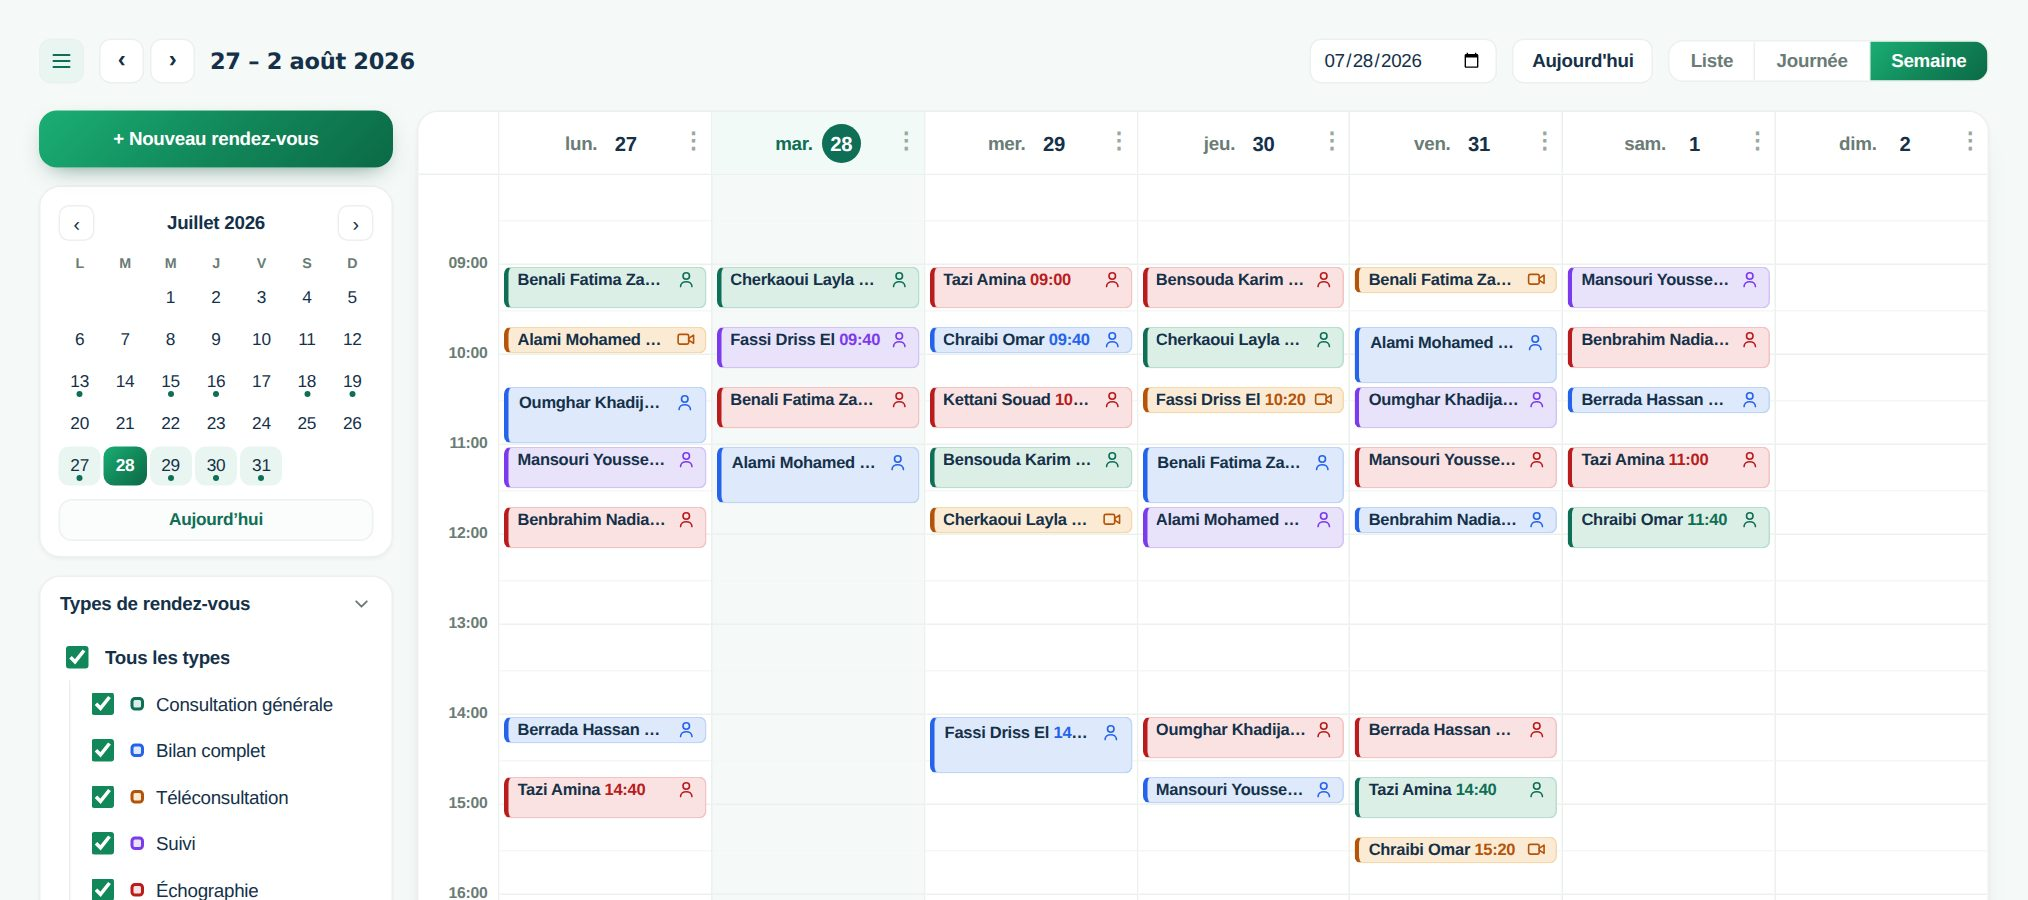
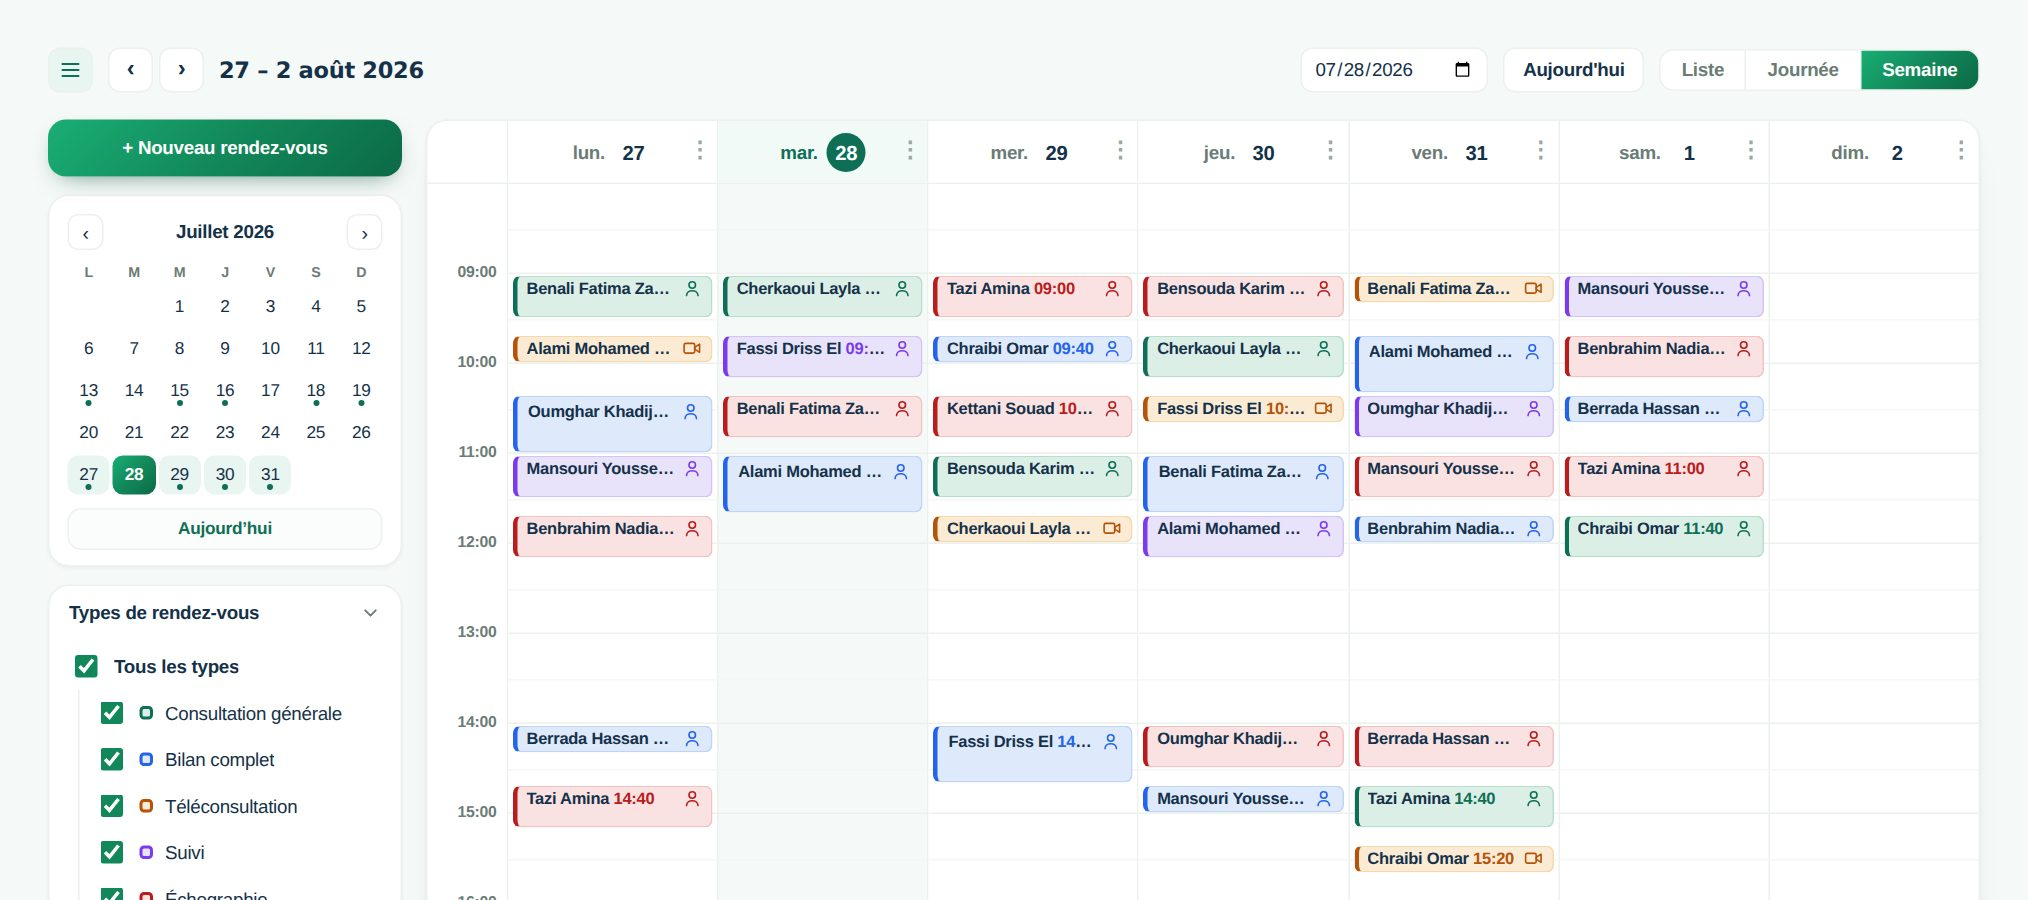
Dossier

diff --git a/frontend/src/pages/doctor/Staff.jsx b/frontend/src/pages/doctor/Staff.jsx
@@ -85,11 +85,15 @@ function StaffPreview() {
     setTimeout(() => el.remove(), 2800);
   };
   return (
-    <div style={{ padding: 32, background: BG, minHeight: '100vh' }}>
-      <div style={{ marginBottom: 20 }}>
-        <h1 style={{ fontSize: 24, fontWeight: 700, color: DARK, margin: 0 }}>Mon équipe</h1>
-      </div>
-      <div style={{ maxWidth: 720, margin: '0 auto', display: 'flex', flexDirection: 'column', gap: 20 }}>
+    <div style={{ padding: '32px 32px 48px', background: BG, minHeight: '100vh' }}>
+      <Hero tint={SEC.admin} icon={ICONS.team}
+        title="Mon équipe"
+        sub="Le secrétariat de votre cabinet : qui a accès, et à quoi."
+        chips={[
+          { value: PREVIEW_MEMBERS.filter((m) => m.active).length, label: 'membres actifs', color: '#0E7C52' },
+          { value: PREVIEW_MEMBERS.length, label: 'au total' },
+        ]} />
+      <div style={{ maxWidth: 900, display: 'flex', flexDirection: 'column', gap: 20 }}>
         <div style={{ background: '#FEF6E7', border: '1px solid #F0DCAE', borderRadius: 14, padding: '14px 18px', fontSize: 13.5, lineHeight: 1.6, color: '#7A5A10', display: 'flex', gap: 11 }}>
           <svg width="18" height="18" viewBox="0 0 24 24" fill="none" stroke="currentColor" strokeWidth="2" strokeLinecap="round" strokeLinejoin="round" style={{ flexShrink: 0, marginTop: 2 }}><circle cx="12" cy="12" r="9"/><path d="M12 8v5M12 16v.1"/></svg>
           <span><strong>Aperçu de démonstration.</strong> Voici la page telle qu'elle fonctionnera dès l'activation de votre compte. Les membres ci-dessous sont fictifs et aucune action n'est enregistrée.</span>
@@ -248,14 +252,14 @@ export default function Staff() {
   }
 
   return (
-    <div style={{ padding: 32, background: BG, minHeight: '100vh' }}>
+    <div style={{ padding: '32px 32px 48px', background: BG, minHeight: '100vh' }}>
 
       <Hero tint={SEC.admin} icon={ICONS.team}
         title="Mon équipe"
         sub="Le secrétariat de votre cabinet : qui a accès, et à quoi." />
 
       <div style={{
-        maxWidth: 720,
+        maxWidth: 900,
         margin: '0 auto',
         display: 'flex',
         flexDirection: 'column',

diff --git a/frontend/src/pages/doctor/PatientFile.jsx b/frontend/src/pages/doctor/PatientFile.jsx
@@ -431,12 +431,14 @@ function PatientPicker({ state, setState, go, isMobile }) {
   const th = { padding: '12px 16px', textAlign: 'start', fontWeight: 600, color: MUTED, fontSize: 12, whiteSpace: 'nowrap' };
 
   return (
-    <div style={{ padding: isMobile ? '18px 14px' : '32px', fontFamily: 'Inter, sans-serif', background: BG, minHeight: '100%', boxSizing: 'border-box' }}>
-      {/* En-tête pleine largeur — même gabarit que Rendez-vous et Consultations */}
-      <div style={{ marginBottom: 22 }}>
-        <h1 style={{ margin: 0, fontSize: 22, fontWeight: 800, color: DARK, letterSpacing: '-0.3px' }}>Dossier patient</h1>
-        <p style={{ margin: '4px 0 0', fontSize: 13.5, color: MUTED }}>Sélectionnez un patient pour ouvrir son dossier médical.</p>
-      </div>
+    <div style={{ padding: isMobile ? 12 : 32, fontFamily: 'Inter, sans-serif', background: BG, minHeight: '100%', boxSizing: 'border-box' }}>
+      <Hero tint={SEC.profil} icon={IC.idcard} isMobile={isMobile}
+        title="Dossier patient"
+        sub="Choisissez un patient pour ouvrir son dossier médical — antécédents, traitements, analyses et documents."
+        chips={[
+          { value: roster.length, label: roster.length > 1 ? 'patients au cabinet' : 'patient au cabinet' },
+          q.trim() ? { value: list.length, label: 'trouvés', color: '#0E7C52' } : null,
+        ]} />
 
       {/* Recherche — carte blanche, comme sur les autres sections */}
       <div style={{ background: '#fff', borderRadius: 14, border: `1px solid ${BORDER}`, padding: '16px 20px', marginBottom: 20, boxShadow: SHADOW }}>

diff --git a/frontend/src/pages/doctor/Availability.jsx b/frontend/src/pages/doctor/Availability.jsx
@@ -335,7 +335,7 @@ export default function Availability({ state, setState, go, openNewAppt, openAdd
   const navBtn = { width: 40, height: 40, borderRadius: 10, border: `1px solid ${BORDER}`, background: '#fff', cursor: 'pointer', fontSize: 18, color: DARK, display: 'flex', alignItems: 'center', justifyContent: 'center', flexShrink: 0 };
 
   return (
-    <div style={{ padding: isMobile ? '8px' : '32px', background: BG, minHeight: '100vh', fontFamily: "'Inter', sans-serif" }}>
+    <div style={{ padding: isMobile ? 12 : 32, background: BG, minHeight: '100vh', fontFamily: "'Inter', sans-serif" }}>
       <Hero tint={SEC.consult} icon={ICONS.clock} isMobile={isMobile}
         title="Disponibilités"
         sub="Horaires, durée des créneaux, pauses de prière et plafond de rendez-vous — vous gardez la main." />

diff --git a/frontend/src/pages/doctor/Navigator.jsx b/frontend/src/pages/doctor/Navigator.jsx
@@ -266,7 +266,7 @@ export default function Navigator({ state, setState, go }) {
   const empty = (t) => <div style={{ padding: '22px 10px', textAlign: 'center', fontSize: 12.5, color: MUTED, lineHeight: 1.6 }}>{t}</div>;
 
   return (
-    <div className="nav" style={{ padding: isMobile ? 12 : 26, background: BG, minHeight: '100vh', fontFamily: 'Inter, sans-serif' }}>
+    <div className="nav" style={{ padding: isMobile ? 12 : 32, background: BG, minHeight: '100vh', fontFamily: 'Inter, sans-serif' }}>
       <style>{`.nav input:focus,.nav select:focus,.nav textarea:focus{border-color:${TEAL} !important;box-shadow:0 0 0 3px rgba(15,110,86,0.07)}`}</style>
 
       <Hero tint={SEC.consult} icon={ICONS.navigator} isMobile={isMobile}

diff --git a/frontend/src/pages/doctor/Requests.jsx b/frontend/src/pages/doctor/Requests.jsx
@@ -111,7 +111,7 @@ export default function Requests({ state, setState, go }) {
   const td = { padding: '13px 16px', fontSize: 13, color: DARK, borderBottom: '1px solid #F1F6F3', verticalAlign: 'middle' };
 
   return (
-    <div className="reqs" style={{ padding: isMobile ? 12 : 26, background: BG, minHeight: '100vh', fontFamily: 'Inter, sans-serif' }}>
+    <div className="reqs" style={{ padding: isMobile ? 12 : 32, background: BG, minHeight: '100vh', fontFamily: 'Inter, sans-serif' }}>
       <style>{`.reqs input:focus,.reqs select:focus,.reqs textarea:focus{border-color:${TEAL} !important;box-shadow:0 0 0 3px rgba(15,110,86,0.07)}
 .reqs tbody tr:hover{background:#F7FBF9;cursor:pointer}`}</style>
 

diff --git a/frontend/src/pages/doctor/Tasks.jsx b/frontend/src/pages/doctor/Tasks.jsx
@@ -225,7 +225,7 @@ export default function Tasks({ state, setState, go }) {
   const td = { padding: '13px 16px', fontSize: 13, color: DARK, borderBottom: `1px solid #F1F6F3`, verticalAlign: 'middle' };
 
   return (
-    <div className="tasks" style={{ padding: isMobile ? 12 : 26, background: BG, minHeight: '100vh', fontFamily: 'Inter, sans-serif' }}>
+    <div className="tasks" style={{ padding: isMobile ? 12 : 32, background: BG, minHeight: '100vh', fontFamily: 'Inter, sans-serif' }}>
       <style>{`.tasks input:focus,.tasks select:focus,.tasks textarea:focus{border-color:${TEAL} !important;box-shadow:0 0 0 3px rgba(15,110,86,0.07)}
 .tasks tbody tr:hover{background:#F7FBF9}`}</style>
 

diff --git a/frontend/src/pages/doctor/Network.jsx b/frontend/src/pages/doctor/Network.jsx
@@ -686,7 +686,7 @@ export default function Network({ state, setState, go }) {
   ];
 
   return (
-    <div style={{ padding: isMobile ? 10 : 32, background: BG, minHeight: '100vh', fontFamily: 'Inter, sans-serif' }}>
+    <div style={{ padding: isMobile ? 12 : 32, background: BG, minHeight: '100vh', fontFamily: 'Inter, sans-serif' }}>
       <Hero tint={SEC.consult} icon={ICONS.team} isMobile={isMobile}
         title="Tabibo Network"
         sub="Reliez votre cabinet à ceux de vos confrères, parlez-leur directement, adressez-leur un patient en trois champs. Aucune pièce du dossier ne circule d’elle-même : vous seul décidez d’envoyer un document."

diff --git a/frontend/src/pages/doctor/Notifications.jsx b/frontend/src/pages/doctor/Notifications.jsx
@@ -138,7 +138,7 @@ export default function Notifications({ state, setState, go, openNewAppt, openAd
   const tabs = ['Messages envoyés', 'Rappels automatiques', 'Contenu des messages'];
 
   return (
-    <div style={{ padding: isMobile ? 8 : 32, backgroundColor: BG, minHeight: '100vh', fontFamily: 'Inter, sans-serif' }}>
+    <div style={{ padding: isMobile ? 12 : 32, backgroundColor: BG, minHeight: '100vh', fontFamily: 'Inter, sans-serif' }}>
       <Hero tint={SEC.ttt} icon={ICONS.bell} isMobile={isMobile}
         title="Rappels et notifications"
         sub="Les messages automatiques envoyés à vos patients, par WhatsApp et par courriel." />

diff --git a/frontend/src/pages/doctor/Patients.jsx b/frontend/src/pages/doctor/Patients.jsx
@@ -203,7 +203,7 @@ export default function Patients({ state, setState, go, openNewAppt, openAddPati
   const pager = usePager(filtered, 10);
 
   return (
-    <div style={{ padding: isMobile ? '8px 6px' : '28px 32px', background: BG, minHeight: '100vh', fontFamily: "'Inter', sans-serif" }}>
+    <div style={{ padding: isMobile ? 12 : 32, background: BG, minHeight: '100vh', fontFamily: "'Inter', sans-serif" }}>
       <Hero tint={SEC.profil} icon={ICONS.users} isMobile={isMobile}
         title="Mes patients"
         sub="L’annuaire complet de votre patientèle — fiche, rendez-vous et ordonnance à portée de clic."

diff --git a/frontend/src/pages/doctor/Stations.jsx b/frontend/src/pages/doctor/Stations.jsx
@@ -98,7 +98,7 @@ export default function Stations({ state, setState, go }) {
   };
 
   return (
-    <div style={{ padding: isMobile ? 14 : 32, background: BG, minHeight: '100vh', fontFamily: 'Inter, sans-serif' }}>
+    <div style={{ padding: isMobile ? 12 : 32, background: BG, minHeight: '100vh', fontFamily: 'Inter, sans-serif' }}>
       <Hero tint={SEC.histo} icon={ICONS.station} isMobile={isMobile}
         title="Postes de soins"
         sub="L’accueil, chaque praticien, la salle de soins, le laboratoire… Ils deviennent les colonnes du navigateur, et le patient peut choisir son poste dès la réservation."

diff --git a/frontend/src/pages/doctor/Documents.jsx b/frontend/src/pages/doctor/Documents.jsx
@@ -95,7 +95,7 @@ export default function Documents({ state, setState, go, openNewAppt, openAddPat
   const docsPager = usePager(filteredDocs, 8);
 
   return (
-    <div style={{ padding: isMobile ? '8px' : '32px', background: BG, minHeight: '100vh', fontFamily: "'Segoe UI', sans-serif" }}>
+    <div style={{ padding: isMobile ? 12 : 32, background: BG, minHeight: '100vh', fontFamily: "'Segoe UI', sans-serif" }}>
       <Hero tint={T} icon={IC.swap} isMobile={isMobile}
         title="Documents médicaux"
         sub="Envoyez un document à un patient, retrouvez tout ce qui a été échangé."

diff --git a/frontend/src/pages/doctor/Appointments.jsx b/frontend/src/pages/doctor/Appointments.jsx
@@ -387,7 +387,7 @@ export default function Appointments({ state, setState, go, openNewAppt }) {
   };
 
   return (
-    <div style={{ padding: isMobile ? '8px 6px' : '28px 32px', background: BG, minHeight: '100vh', fontFamily: "'Inter', sans-serif" }}>
+    <div style={{ padding: isMobile ? 12 : 32, background: BG, minHeight: '100vh', fontFamily: "'Inter', sans-serif" }}>
       <Hero tint={SEC.profil} icon={ICONS.calendar} isMobile={isMobile}
           title="Rendez-vous"
           sub="Tous vos rendez-vous, filtrables — confirmez, déplacez, encaissez."
